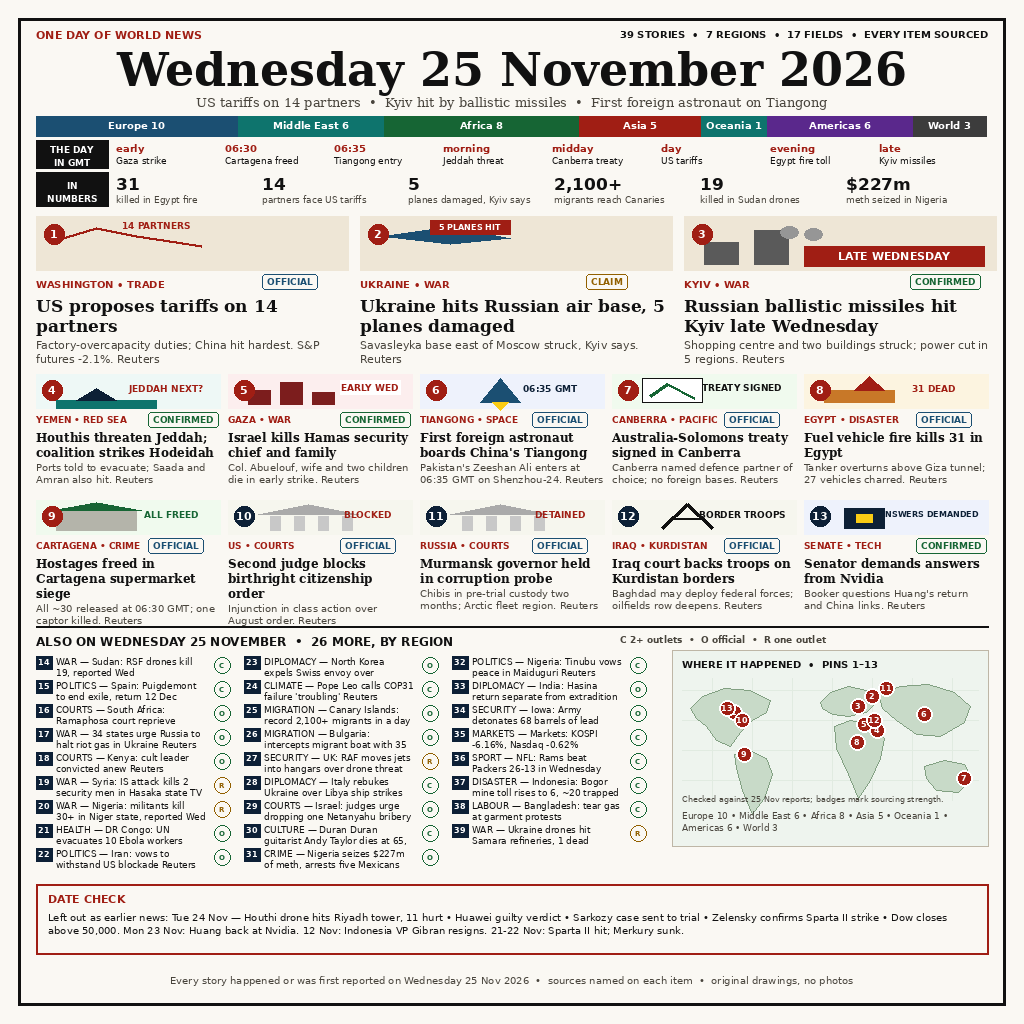
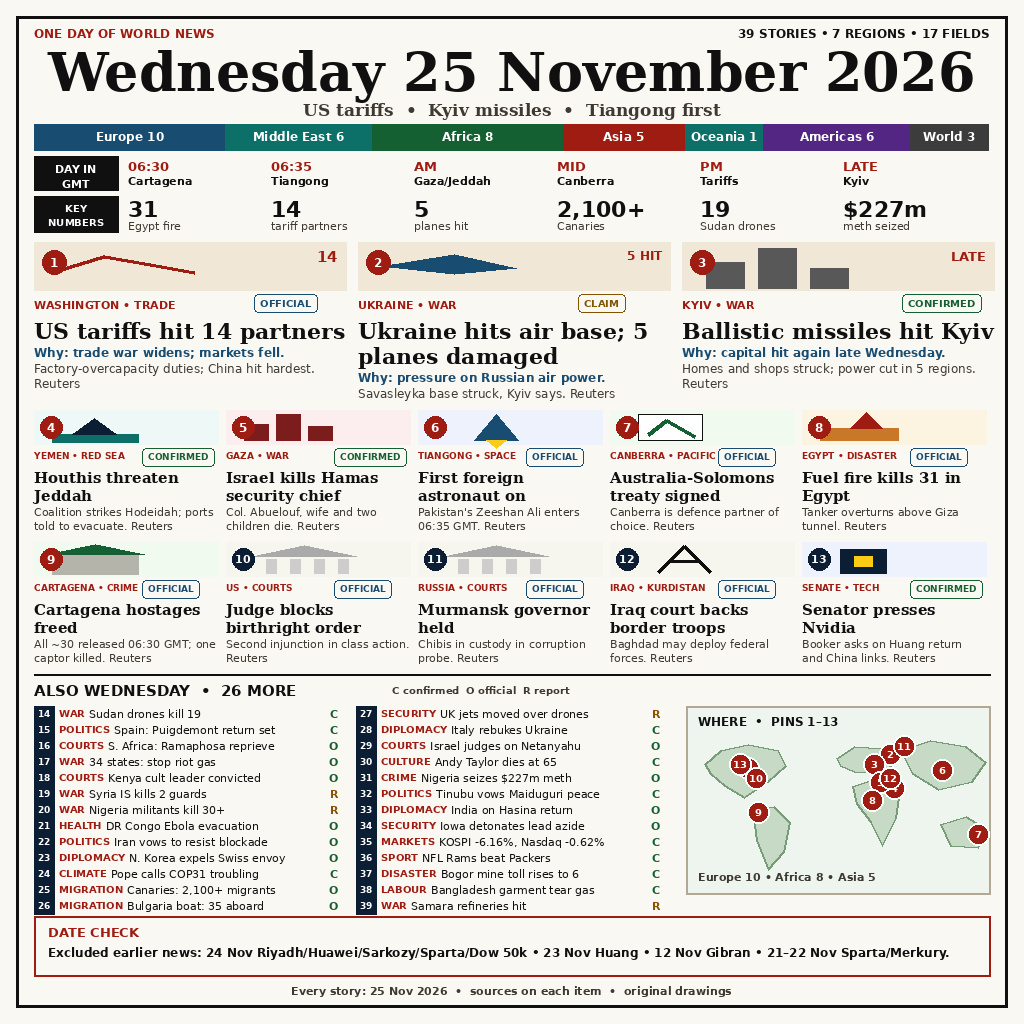
Improve 25 Nov news image thumbnail legibility (v3)

diff --git a/main.py b/main.py
@@ -1,5 +1,5 @@
 #!/usr/bin/env python3
-"""Sum up 25 November 2026 world news in one image (v2).
+"""Sum up 25 November 2026 world news in one image (v3).
 
 Entrypoint for the make.fun news-image-20261125 bounty. Standard library
 only, no network access. It copies the pre-built image entry.png
@@ -7,9 +7,11 @@ only, no network access. It copies the pre-built image entry.png
 $MAKEFUN_OUTPUT_DIR/entry.png when that variable is set.
 Running it twice writes exactly the same bytes.
 
-The v2 image sums up Wednesday 25 November 2026 in 39 sourced stories:
+The v3 image sums up Wednesday 25 November 2026 in 39 sourced stories:
 13 numbered drawn cards, 26 numbered briefs, region/field counts, a
 GMT day strip, a numbers strip, a pin map and a date-check section.
+Compared with v2 it uses a larger lead hierarchy, why-it-matters lines,
+shorter briefs and a simpler map so the thumbnail stays readable.
 """
 
 import hashlib

diff --git a/README.md b/README.md
@@ -6,7 +6,7 @@
 
 Sum up the world's news of Wednesday 25 November 2026 in one image.
 
-The v2 image carries 39 sourced stories with structured density:
+The v3 image carries 39 sourced stories with structured density:
 13 numbered drawn cards (US tariffs on 14 partners, Ukraine's strike
 on a Russian air base, ballistic missiles on Kyiv, the Houthi Jeddah
 threat, the Gaza strike, the first foreign astronaut on Tiangong, the
@@ -14,7 +14,9 @@ Australia–Solomons treaty, Egypt's 31-dead fire, the Cartagena rescue,
 the birthright-citizenship injunction, the Murmansk detention, Iraq's
 border ruling, and the Nvidia probe), 26 numbered briefs, region and
 field counts, a GMT day strip, a numbers strip, a pin map, and a
-date-check section that excludes earlier-day near misses.
+date-check section that excludes earlier-day near misses. V3 enlarges
+the lead hierarchy, adds why-it-matters lines, shortens the briefs and
+simplifies the map so the front page stays readable at thumbnail size.
 
 ## Run it
 

diff --git a/NEWS_BRIEF.md b/NEWS_BRIEF.md
@@ -1,4 +1,4 @@
-# News brief — Wednesday 25 November 2026 (v2, full day)
+# News brief — Wednesday 25 November 2026 (v3, full day)
 
 Rebuilt 2026-11-26 after the full 25 Nov news day ended in every time
 zone. Sources: Reuters World News Summaries of 25–26 Nov 2026 and the
@@ -45,5 +45,8 @@ Indonesia VP Gibran resigns. 21–22 Nov: Sparta II hit; Merkury sunk.
 39 stories, 7 regions (Europe 10, Middle East 6, Africa 8, Asia 5,
 Oceania 1, Americas 6, World 3), 17 fields. Structured density:
 region strip, GMT day strip, numbers strip, 13 numbered drawn cards
-with badges, 26 numbered briefs, pin map 1–13, date-check.
-1024×1024 PNG, deterministic, no network at run time.
+with badges, 26 numbered briefs, pin map 1–13, date-check. V3 keeps
+the same story set and enlarges the lead hierarchy, adds
+why-it-matters lines, shortens briefs and simplifies the map for
+thumbnail legibility. 1024×1024 PNG, deterministic, no network at
+run time.
